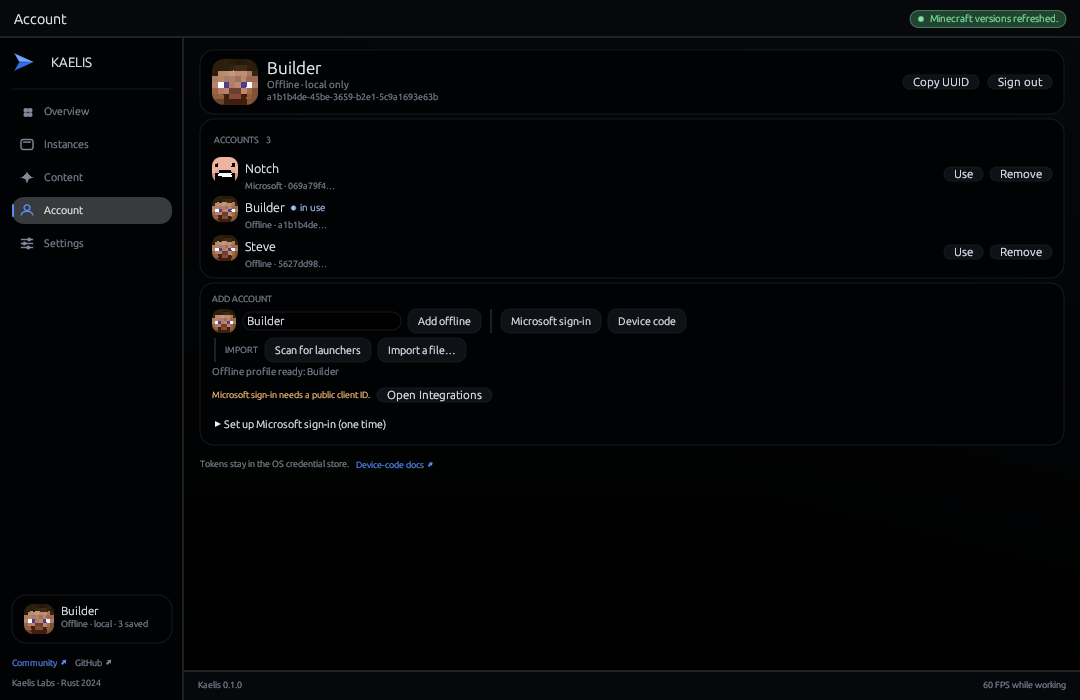
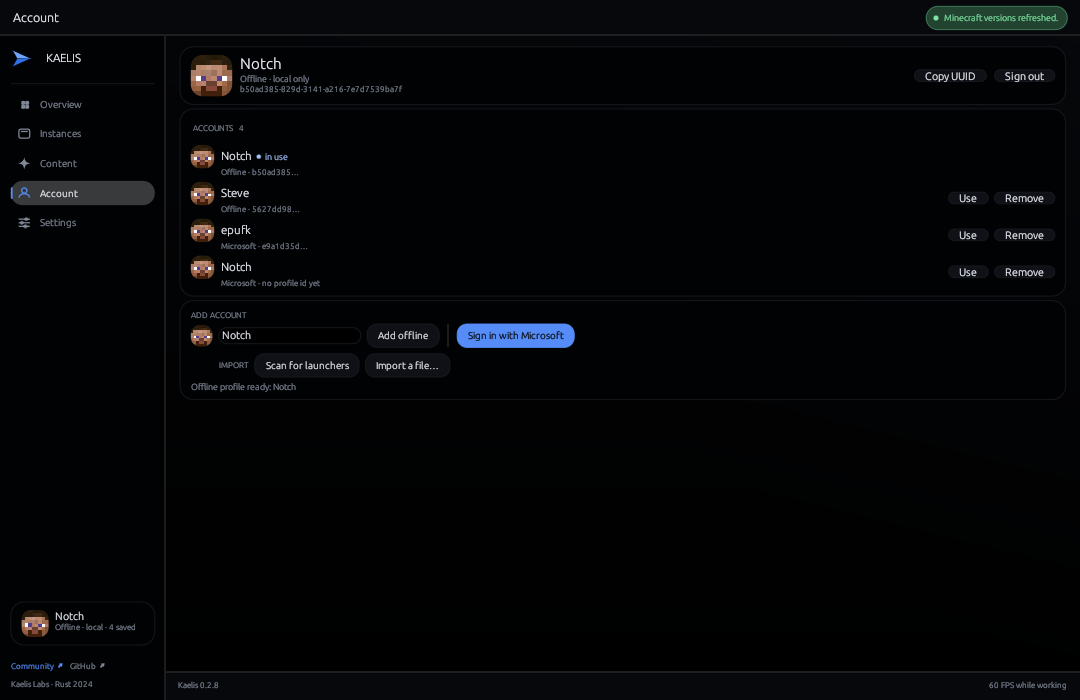
Refresh the Accounts screenshot and point the README at local art
The last external GitHub attachment was the oldest capture in the project.
The README hero and the site now use the same 0.2.8 Accounts capture served
from site/assets, so the documentation has no stale remote image and the
site's alt text describes every saved identity rather than a fixed three.

diff --git a/site/index.html b/site/index.html
@@ -516,7 +516,7 @@
             <figcaption>Instances — create, import, launch.</figcaption>
           </figure>
           <figure>
-            <img src="assets/app-accounts.png" width="1080" height="700" loading="lazy" decoding="async" alt="Account tab: the active identity, three saved accounts each with a skin head, and one row to add another">
+            <img src="assets/app-accounts.png" width="1080" height="700" loading="lazy" decoding="async" alt="Account tab: the active identity, every saved offline or Microsoft account with a skin head, and one row to add another">
             <figcaption>Accounts — every identity, one click to switch.</figcaption>
           </figure>
           <figure>

diff --git a/README.md b/README.md
@@ -6,7 +6,7 @@
 ![Idle CPU](https://img.shields.io/badge/idle%20CPU-0.00%25-3fb950)
 ![Tests](https://img.shields.io/badge/tests-260%20passing-3fb950)
 
-<img width="1080" height="700" alt="accounts" src="https://github.com/user-attachments/assets/48041394-24b6-4a1c-8885-ad04ca1db913" />
+<img width="1080" height="700" alt="Accounts tab: the active identity and every saved offline or Microsoft account" src="site/assets/app-accounts.png" />
 
 **Minecraft, composed.** The fastest and lightest way to run Minecraft: a
 native Rust launcher for Windows, macOS, and Linux with one calm library for
